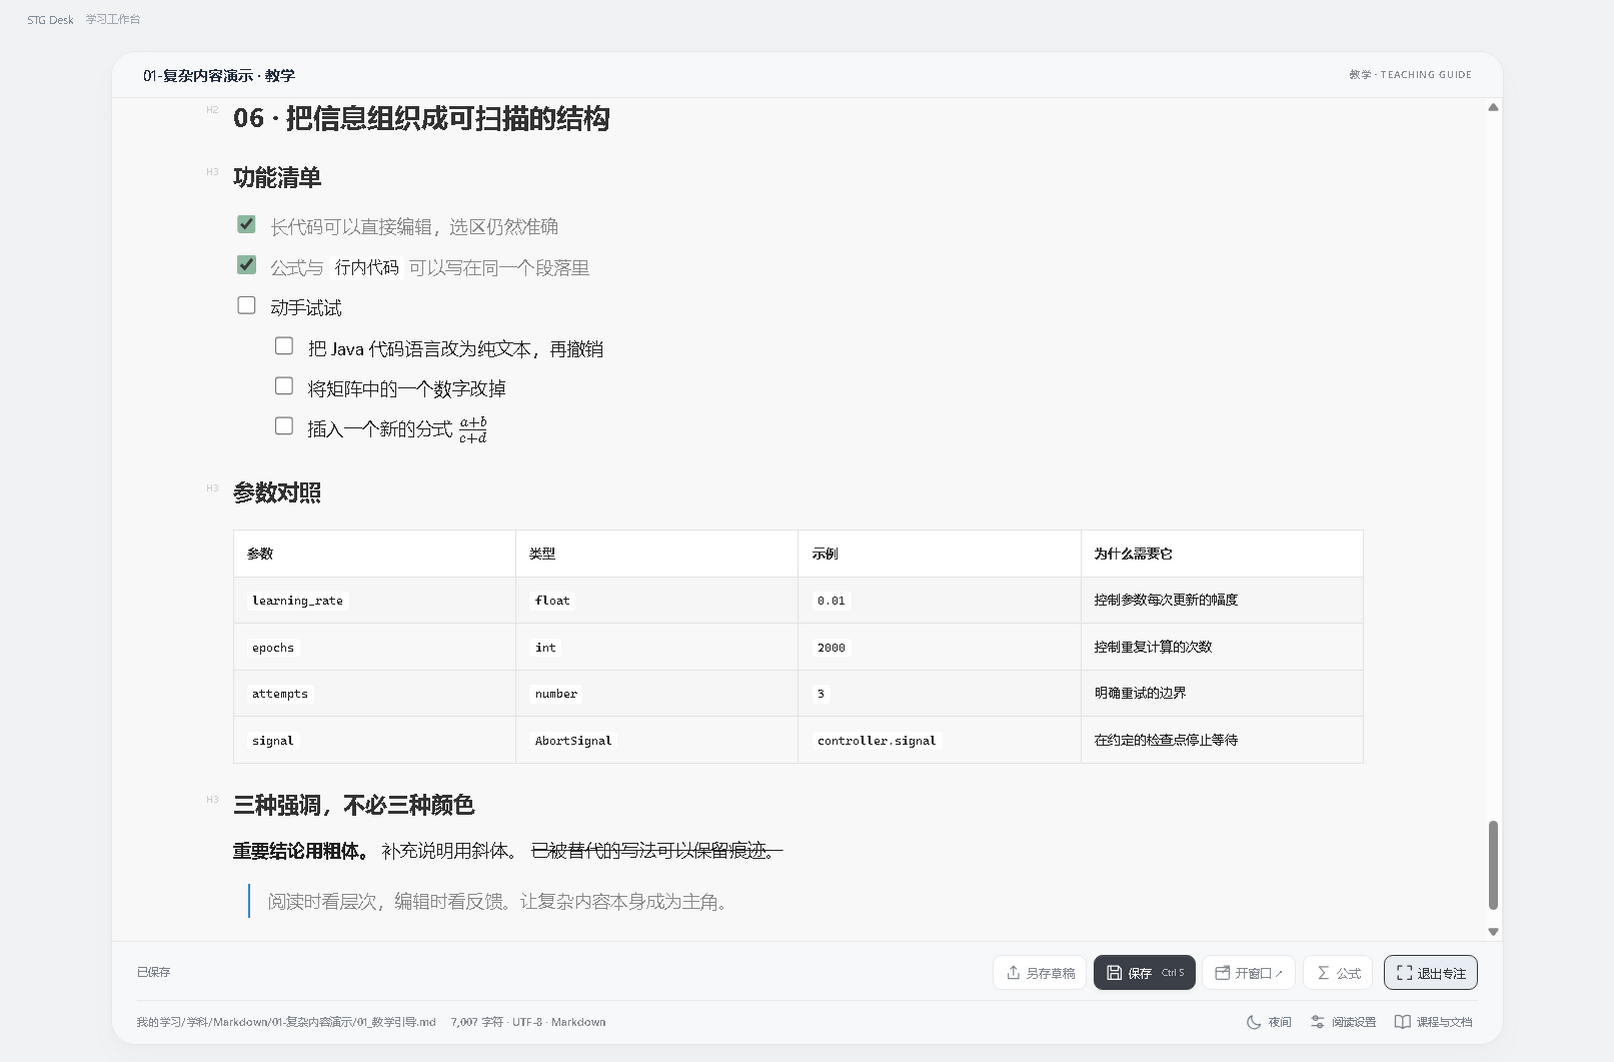
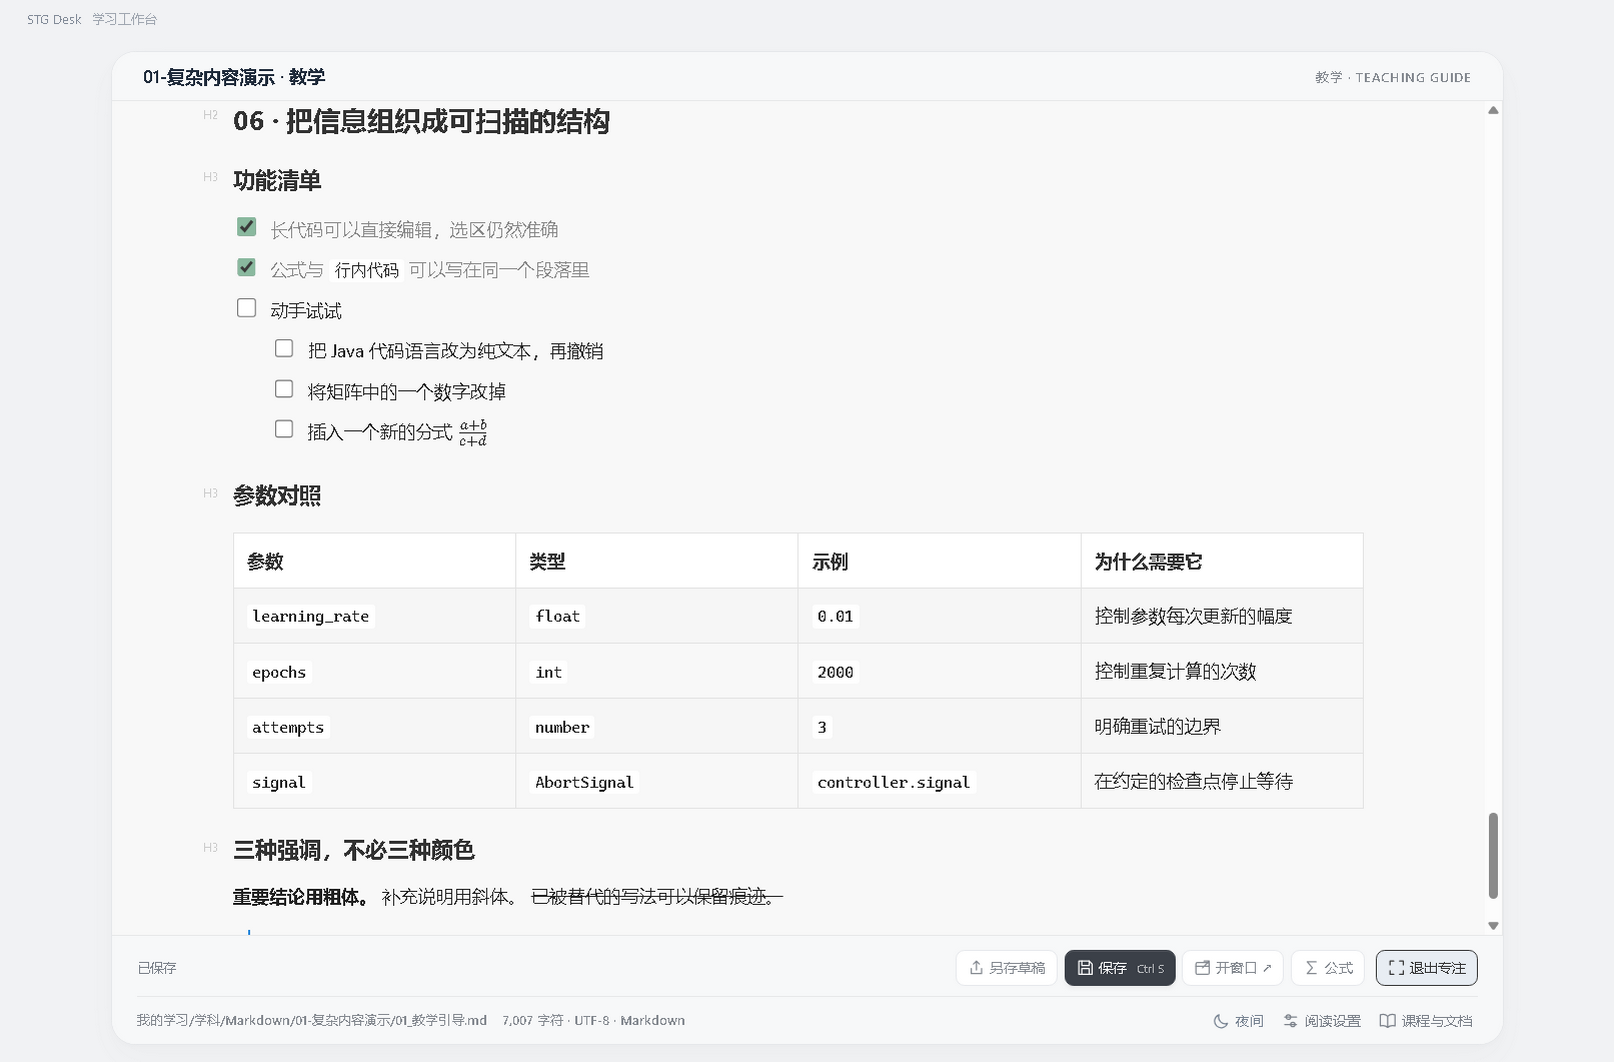
docs: refresh v0.3.7 README and interface screenshots

diff --git a/docs/releases/v0.3.7.md b/docs/releases/v0.3.7.md
@@ -1,0 +1,48 @@
+# v0.3.7 · 界面字号与可读性优化
+
+本次更新统一调整整个应用的界面字号：信息文字不再过小，常用按钮和输入区更好读，文档表格跟随正文字号缩放。界面配色、学习数据与 DSH 账号模型保持不变。
+
+## 字号与可读性
+
+- 统一了工具栏、状态提示、作答区和 DSH 的字号层级。
+- 元信息与辅助说明文字由 9–11px 提升到 12px。
+- 常用按钮由 10–12px 提升到 13–14px，底部文档操作按钮与作答页签为 13px，阅读设置与 DSH 标题为 14px。
+- 作答文本框与 DSH 输入框使用 15px，文档栏标题为 16px，作答说明为 13px。
+- 欢迎页、进度辅助、阅读设置、历史版本、公式与代码工具、DSH 面板与小窗使用同一字号梯度。
+- 文档表格此前固定为 12px，现改为继承正文；实测正文 16px 时表格为 16px，正文 21px 时表格为 21px。
+- 文档正文字号仍由「阅读设置」控制，默认 16px，可在 13–24px 之间调整；各级标题与正文的比例关系保持不变。
+- 仅有的布局微调是收紧标题区按钮的内边距，并允许作答页签在窄窗口下换行。
+
+## 原有设置与保存保护
+
+阅读设置、夜间主题与专注模式行为不变，导入目录、草稿、版本校验、写入前备份、外部修改提醒与历史恢复保持原有实现，未保存的输入仍由自动草稿恢复。
+
+## 验证与下载
+
+- 154 项单元测试通过。
+- 真实 Electron 字号与布局验收通过 13 个状态：欢迎页、课程页、DSH 停靠、1050×720 窄窗口停靠、夜间、系统「减少动态效果」、约 400×600 DSH 浮窗、作答记录与完整文档、阅读设置、21px 正文，以及 550px 独立教学窗与回答窗。
+- 完整桌面冒烟验收 24 条证据全部通过，渲染进程无报错。
+- Windows 便携 EXE 已完成隔离桌面冒烟，24 条证据通过。
+- 发布所用的 CSS 与 JS 构建产物与验收版本逐字节一致。
+- 各状态实测容器无横向溢出，按下作答页签与底部按钮均保持完整可点。
+
+Windows x64 下载：`STG-Desk-0.3.7-Windows.exe`。`SHA256SUMS.txt` 提供发布附件的 SHA-256 校验值。
+
+复杂内容演示另附 `STG-Desk-0.3.7-EditorShowcase.zip`，解压后导入 `EditorShowcase` 根目录即可查看代码、公式、表格和嵌套清单。
+
+## English
+
+This release raises the interface type scale across the whole app: small metadata is no longer hard to read, common buttons and inputs are more legible, and document tables now scale with the body text. Interface colours, learning data, and the DSH account model are unchanged.
+
+- Toolbars, status text, the answer workspace, and DSH use a consistent type scale.
+- Metadata and helper text moved from 9–11px to 12px.
+- Common buttons moved from 10–12px to 13–14px; document action buttons and answer tabs are 13px, and reading settings and DSH headings are 14px.
+- The answer textarea and the DSH input use 15px, the document heading is 16px, and answer help text is 13px.
+- The welcome screen, progress helpers, reading settings, version history, formula and code tools, and the DSH panel and floating window share the same scale.
+- Document tables previously used a fixed 12px and now inherit the body text: measured 16px at a 16px body size and 21px at 21px.
+- Body text is still controlled by 「阅读设置」 (Reading settings) — 16px by default, adjustable from 13 to 24px — and heading-to-body ratios are unchanged.
+- The only layout tweaks are tighter header-button padding and answer tabs that wrap in narrow windows.
+
+Reading settings, the night theme, and focus mode behave as before. Import, drafts, version checks, backups before writes, external-change alerts, and history restoration are unchanged, and unsaved input is still recovered from automatic drafts. All 154 unit tests passed, along with 13 real Electron typography and layout states (welcome, lesson, docked DSH, 1050×720 narrow dock, night, reduced motion, a roughly 400×600 floating DSH window, answer records and full document, reading settings, 21px body text, and the 550px detached teaching and answer windows). The full desktop smoke run passed 24 evidence items with no renderer errors, and the shipped CSS/JS build is byte-identical to the accepted version. No state showed horizontal container overflow, and the answer tabs and footer buttons remained fully clickable.
+
+The Windows portable EXE also passed all 24 desktop smoke checks with an isolated profile. Download `STG-Desk-0.3.7-Windows.exe`; `SHA256SUMS.txt` provides SHA-256 checksums. The optional `STG-Desk-0.3.7-EditorShowcase.zip` contains complex-content examples; extract it and import the `EditorShowcase` root folder.

diff --git a/README.en.md b/README.en.md
@@ -20,7 +20,9 @@ STG Desk is a Windows desktop workspace for [StepsToGreat](https://github.com/wi
 
 Reading, editing, and answering work independently; connect DSH when needed. Learning files stay in their original directory so a tutor or learning agent can read and update them.
 
-> This README covers [v0.3.6](https://github.com/wildcat430524/STG-Desk/releases/tag/v0.3.6). See the [release notes](https://github.com/wildcat430524/STG-Desk/releases) for version changes. The app interface is currently in Chinese.
+> This README covers [v0.3.7](https://github.com/wildcat430524/STG-Desk/releases/tag/v0.3.7). See the [release notes](https://github.com/wildcat430524/STG-Desk/releases) for version changes. The app interface is currently in Chinese.
+
+v0.3.7 raises the interface type scale: metadata and helper text, common buttons, answer inputs, and the DSH input now use larger baseline sizes, and document tables scale with the body text. Body text is still controlled by 「阅读设置」 (Reading settings) — 16px by default, adjustable from 13 to 24px. Colour themes, learning data, and the DSH account model are unchanged.
 
 ## Preview
 
@@ -120,7 +122,7 @@ Headings, lists, tables, and formulas are organised by content level: `H1`/`H2`/
 To open it:
 
 - **Running from source**: import the `demo/EditorShowcase` directory.
-- **Using the portable build**: download the [complex-content showcase ZIP](https://github.com/wildcat430524/STG-Desk/releases/download/v0.3.6/STG-Desk-0.3.6-EditorShowcase.zip), extract it, and import the `EditorShowcase` root folder. You can also read the [demo source](demo/EditorShowcase) and [showcase lesson](demo/EditorShowcase/我的学习/学科/Markdown/01-复杂内容演示/01_教学引导.md) directly.
+- **Using the portable build**: download the [complex-content showcase ZIP](https://github.com/wildcat430524/STG-Desk/releases/download/v0.3.7/STG-Desk-0.3.7-EditorShowcase.zip), extract it, and import the `EditorShowcase` root folder. You can also read the [demo source](demo/EditorShowcase) and [showcase lesson](demo/EditorShowcase/我的学习/学科/Markdown/01-复杂内容演示/01_教学引导.md) directly.
 - After importing, 「选择课程」 (Choose lesson) lists this showcase lesson at `我的学习/学科/Markdown/01-复杂内容演示/`. The welcome screen's [bundled demo lessons](demo/StepsToGreat) open a separate workspace.
 
 > The Java example targets Java 17+ and was only reviewed, not compiled: this machine runs Java 11. The Python example was executed. The showcase demonstrates layout and editing behaviour; it is not a learning assessment.

diff --git a/README.md b/README.md
@@ -20,7 +20,9 @@ STG Desk 是面向 [StepsToGreat](https://github.com/wildcat430524/StepsToGreat)
 
 阅读、编辑和作答可以独立使用，DSH 对话按需连接。学习资料仍保存在原目录中，便于导师或学习 Agent 接着读取和更新。
 
-> 本文对应 [v0.3.6](https://github.com/wildcat430524/STG-Desk/releases/tag/v0.3.6)，各版本变化见 [发布说明](https://github.com/wildcat430524/STG-Desk/releases)。应用界面目前为中文。
+> 本文对应 [v0.3.7](https://github.com/wildcat430524/STG-Desk/releases/tag/v0.3.7)，各版本变化见 [发布说明](https://github.com/wildcat430524/STG-Desk/releases)。应用界面目前为中文。
+
+v0.3.7 统一提高了界面字号：元信息与说明文字、常用按钮、作答输入和 DSH 输入都改用更大的基准字号，文档表格随正文字号缩放。文档正文仍由「阅读设置」控制，默认 16px，可在 13–24px 间调整；颜色主题、学习数据与 DSH 账号模型均未改动。
 
 ## 界面预览
 
@@ -120,7 +122,7 @@ C/C++ · C# · Go · Rust · Kotlin · YAML · Markdown · Diff · 纯文本
 导入方式：
 
 - **从源码运行**：导入 `demo/EditorShowcase` 目录。
-- **使用便携版**：下载 [复杂内容演示 ZIP](https://github.com/wildcat430524/STG-Desk/releases/download/v0.3.6/STG-Desk-0.3.6-EditorShowcase.zip)，解压后导入 `EditorShowcase` 根目录。也可以直接查看 [演示源码](demo/EditorShowcase) 和 [教学文档](demo/EditorShowcase/我的学习/学科/Markdown/01-复杂内容演示/01_教学引导.md)。
+- **使用便携版**：下载 [复杂内容演示 ZIP](https://github.com/wildcat430524/STG-Desk/releases/download/v0.3.7/STG-Desk-0.3.7-EditorShowcase.zip)，解压后导入 `EditorShowcase` 根目录。也可以直接查看 [演示源码](demo/EditorShowcase) 和 [教学文档](demo/EditorShowcase/我的学习/学科/Markdown/01-复杂内容演示/01_教学引导.md)。
 - 导入后「选择课程」会列出这门演示课程（路径为 `我的学习/学科/Markdown/01-复杂内容演示/`），与内置的 [示例课程](demo/StepsToGreat) 相互独立。
 
 > 演示中的 Java 示例按 Java 17+ 语法编写，仅经过审查，未在本机 Java 11 环境编译；Python 示例已实际运行。示例用于展示排版与编辑效果，不代表学习评估。
